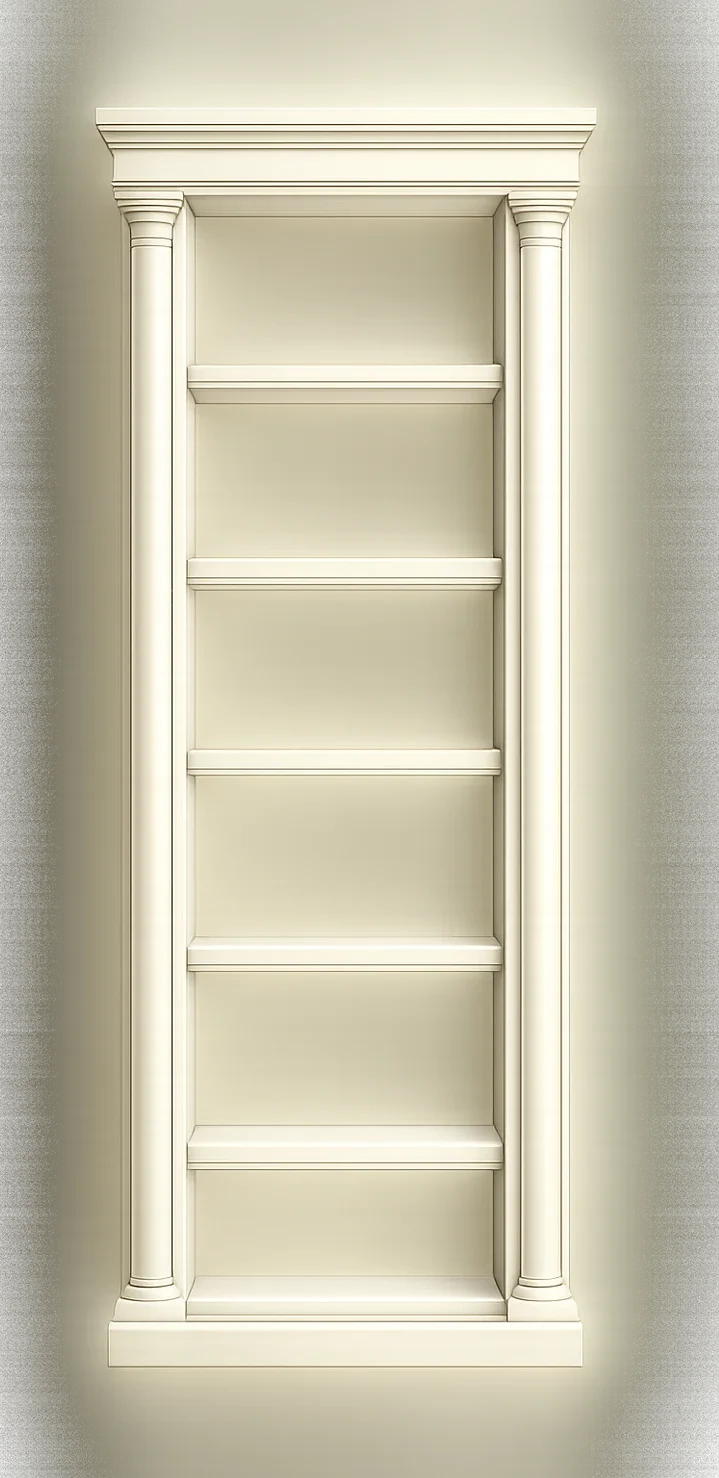
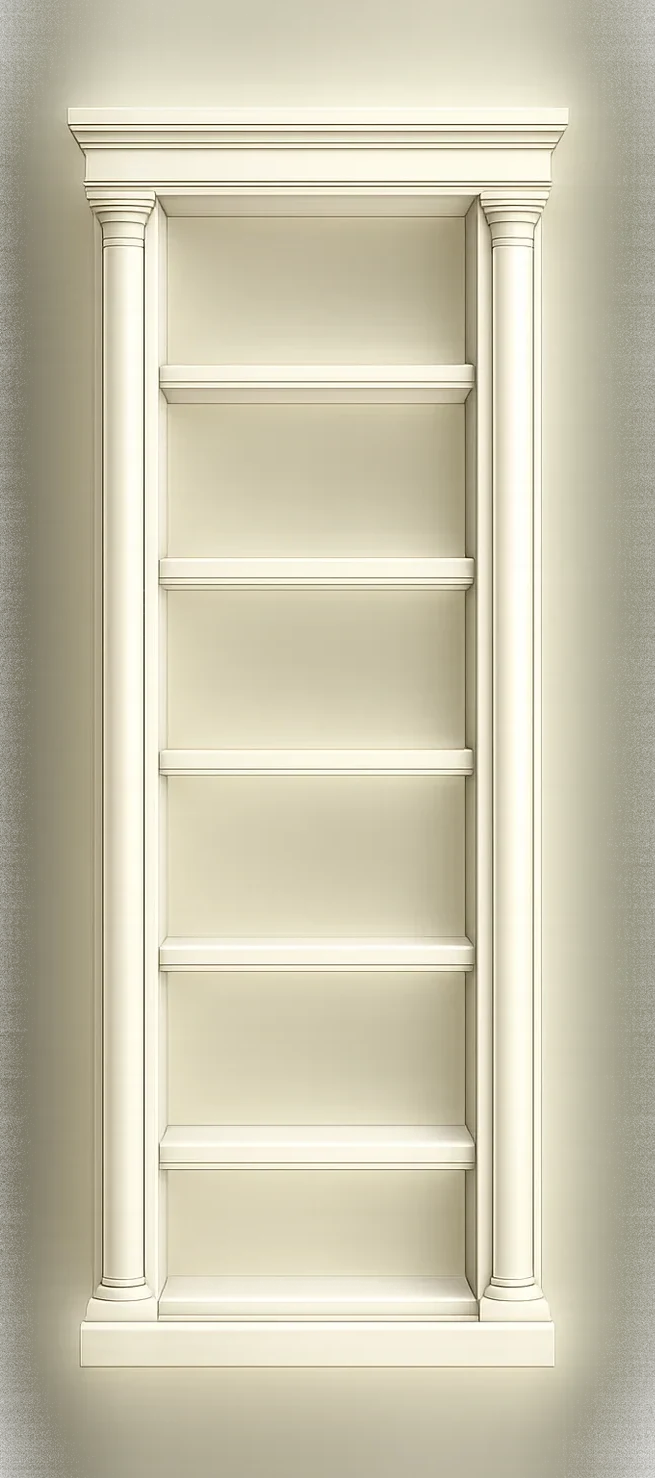
fix: 柱を残したままアイテムが下を潜って流れるようにする
柱を消す方式をやめる。棚を 2 枚重ね、中身をその間に挟む。
  - 奥（塗りあり）: 背板・棚板を含む棚そのもの
  - 手前（塗りなし）: 柱・繰形などの枠だけ
アイテムは柱の下を潜って流れるので、柱を消す必要がなくなり、
送っている間も棚の幅は変わらない。スクロール位置の監視も不要になった。

併せて画像を造作の輪郭まで切り詰め（横 1282x304 / 縦 655x1478）、
枠の縮尺を上げてアイテムとの釣り合いを取り直す。

Changed region(s): [[0.6718, 0.0, 1.0, 1.0], [0.0916, 0.0622, 0.2748, 0.9337], [0.0, 0.0, 0.0916, 1.0]]

diff --git a/frontend/src/components/features/display/ShelfBoard.tsx b/frontend/src/components/features/display/ShelfBoard.tsx
@@ -1,6 +1,6 @@
 'use client'
 
-import { createContext, useContext, useEffect, useRef, useState, type ReactNode } from 'react'
+import { createContext, useContext, type ReactNode } from 'react'
 import { useSettingsStore } from '@/stores/settings'
 import {
   DEFAULT_DISPLAY_STYLE,
@@ -74,13 +74,9 @@ export function ShelfGroup({ children, className = '' }: { children: ReactNode; 
  * 場が増えても設定は増やさない方針なので、何を出すかはここで場ごとに決める。
  * atelier（制作台）/ study（机）は今後この分岐に足す。
  */
-// 横棚の側枠（柱）の幅。マスクの切り口もここから逆算するので 1 か所で持つ
-const SIDE_BORDER = 105
-
 export function SurfaceBoard({ surface, children }: { surface: Surface; children: ReactNode }) {
   const style = useDisplayStyle()
   const orientation = useShelfOrientation()
-  const { hostRef, scrollable } = useRailEdges(children)
 
   if (style === 'simple' || surface !== 'library') return <>{children}</>
 
@@ -88,127 +84,65 @@ export function SurfaceBoard({ surface, children }: { surface: Surface; children
   const stacked = orientation === 'columns'
 
   /*
-    棚の切れ目。中身が送りきれない棚は、両端の柱の枠幅を 0 にする。
+    棚は border-image で描く。背景画像として引き伸ばすと柱や繰形まで一緒に伸びるが、
+    border-image なら四隅と四辺を切り出して固定し、中央だけを伸ばせる。
+    slice の値は、透明な余白を切り落とした画像の実測値。
+      - 横 1282x304: 繰形 y=..50 / 内部 50..235 / 棚板 235..304、柱 x=51..120・1200..1251
+      - 縦 655x1478: 繰形 y=..210 / 柱 x=93..150・500..543 / 台座 y=1288..
 
-    柱をマスクで透過させるだけだと、そこにあった幅が空白として残り、
-    棚が痩せたように見えてしまう。棚が続いていることを示したいので、
-    枠を落として *その幅を棚の内側に明け渡す*。中身もそのぶん広く使える。
-
-    開閉はスクロール位置ではなく「送れる棚か」で決める。位置で切り替えると
-    枠が戻る → 中身の幅が変わる → 判定が変わる、の往復が起きて表示が乱れるため。
-
-    枠幅は 4 辺とも longhand で指定する。shorthand と混ぜると、
-    値を戻したときに古い指定が残るかどうかがブラウザ任せになるため。
-    切り口は短いマスクで和らげるだけに留める（幅は奪わない）。
+    棚は 2 枚重ねる。
+      - 奥（塗りあり）: 背板・棚板を含む棚そのもの
+      - 手前（塗りなし）: 柱・繰形などの枠だけ
+    中身をその間に挟むことで、アイテムは柱の *下を潜って* 流れる。
+    柱を消す必要がなくなるので、送っている間も棚の幅は変わらない。
   */
-  const openEnd = scrollable
-  const openStart = scrollable
-  const softCut = 32
-
-  /*
-    棚は border-image で描く。背景画像として引き伸ばすと柱や繰形まで一緒に伸びて
-    絵が崩れるが、border-image なら四隅と四辺を切り出して固定し、中央だけを伸ばせる。
-    slice の値は画像の不透明度プロファイルから採った実測値。
-      横: 柱 x=90..260 / 1140..1310、上の繰形 y=..90、棚板と台座 y=250..
-      縦: 柱 x=90..190 / 630..730、上の繰形 y=..210、台座 y=1288..
-    border の内側がそのまま棚の内側になるので、アイテムが柱に載ることはない。
-  */
-  const shelf = stacked
+  const frame = stacked
     ? {
-        borderTopWidth: '116px',
-        borderBottomWidth: '105px',
-        borderLeftWidth: '82px',
-        borderRightWidth: '82px',
+        borderTopWidth: '137px',
+        borderBottomWidth: '124px',
+        borderLeftWidth: '104px',
+        borderRightWidth: '104px',
         borderImageSource: "url('/shelf/vertical.webp')",
-        borderImageSlice: '210 150 190 150 fill',
+        slice: '210 160 190 160',
       }
     : {
-        borderTopWidth: '34px',
-        borderBottomWidth: '51px',
-        borderLeftWidth: `${SIDE_BORDER}px`,
-        borderRightWidth: `${SIDE_BORDER}px`,
+        borderTopWidth: '45px',
+        borderBottomWidth: '62px',
+        borderLeftWidth: '135px',
+        borderRightWidth: '135px',
         borderImageSource: "url('/shelf/horizontal.webp')",
-        borderImageSlice: '62 190 92 190 fill',
+        slice: '50 150 69 150',
       }
+  const { slice, ...box } = frame
+  const layer = (fill: boolean) => ({
+    ...box,
+    borderStyle: 'solid' as const,
+    borderColor: 'transparent',
+    borderImageRepeat: 'stretch' as const,
+    borderImageSlice: fill ? `${slice} fill` : slice,
+  })
 
   return (
     <div className="relative flex h-full min-h-0 flex-1 flex-col">
-      <div
-        ref={hostRef}
-        className={`relative flex flex-1 ${stacked ? 'items-start' : 'items-end'}`}
-        style={{
-          ...shelf,
-          borderStyle: 'solid',
-          borderColor: 'transparent',
-          borderImageRepeat: 'stretch',
-          ...(stacked
-            ? null
-            : {
-                borderLeftWidth: openStart ? '0px' : `${SIDE_BORDER}px`,
-                borderRightWidth: openEnd ? '0px' : `${SIDE_BORDER}px`,
-                maskImage: `linear-gradient(to right, ${
-                  openStart ? `transparent 0, #000 ${softCut}px` : '#000 0%'
-                }, ${openEnd ? `#000 calc(100% - ${softCut}px), transparent 100%` : '#000 100%'})`,
-                WebkitMaskImage: `linear-gradient(to right, ${
-                  openStart ? `transparent 0, #000 ${softCut}px` : '#000 0%'
-                }, ${openEnd ? `#000 calc(100% - ${softCut}px), transparent 100%` : '#000 100%'})`,
-                maskSize: '100% 100%',
-                maskRepeat: 'no-repeat',
-                WebkitMaskSize: '100% 100%',
-                WebkitMaskRepeat: 'no-repeat',
-              }),
-        }}
-      >
-        {/*
-          中身。横棚では棚板に少し掛かるところまで下げる。
-          こうするとアイテムは板の上に載って見え、スクロールバーは板の小口に重なる。
-        */}
+      <div className={`relative flex flex-1 ${stacked ? 'items-start' : 'items-end'}`}>
+        {/* 奥。背板と棚板を含む棚そのもの */}
+        <span aria-hidden className="absolute inset-0" style={layer(true)} />
+
+        {/* 中身。柱の下も含めた全幅を使い、枠の内側に収まる位置まで余白で押し込む */}
         <div
-          className={`relative z-10 min-w-0 flex-1 [&>[data-rail]>*]:drop-shadow-[0_6px_5px_rgba(0,0,0,0.22)] ${
-            stacked ? '' : '-mb-3 px-3 pt-4'
-          }`}
+          className="relative z-[1] min-w-0 flex-1 [&>[data-rail]>*]:drop-shadow-[0_6px_5px_rgba(0,0,0,0.22)]"
+          style={
+            stacked
+              ? { paddingLeft: 104, paddingRight: 104, paddingTop: 145, paddingBottom: 124 }
+              : { paddingTop: 53, paddingBottom: 50 }
+          }
         >
           {children}
         </div>
+
+        {/* 手前。柱と繰形だけを中身の上に重ねる */}
+        <span aria-hidden className="pointer-events-none absolute inset-0 z-[2]" style={layer(false)} />
       </div>
     </div>
   )
-}
-
-/**
- * 中身が送れる方向を見張る。
- *
- * 棚の端を切って見せるかどうかは「まだ先があるか」で決まるため、
- * スクロール位置・中身の量・棚の幅のいずれが変わっても取り直す。
- * Rail は呼び出し側が描く要素なので、data-rail を目印に辿る。
- */
-function useRailEdges(children: ReactNode) {
-  const hostRef = useRef<HTMLDivElement>(null)
-  const [edges, setEdges] = useState({ scrollable: false })
-
-  useEffect(() => {
-    const rail = hostRef.current?.querySelector<HTMLElement>('[data-rail]')
-    if (!rail) return
-
-    const update = () => {
-      // 枠を出し入れすると中身の幅が変わり、その結果また判定が変わる。
-      // 位置で切り替えると往復して表示が乱れるため、「送れる棚か」だけで決める。
-      // 送れる棚では両端を開けたままにし、レイアウトを動かさない。
-      const scrollable = rail.scrollWidth - rail.clientWidth > 1
-      setEdges((prev) => (prev.scrollable === scrollable ? prev : { scrollable }))
-    }
-    update()
-    rail.addEventListener('scroll', update, { passive: true })
-    // 枠の大きさが変わらなくても中身の総幅は変わる（画像の読み込みなど）。
-    // Rail 自身に加えて、並んでいるアイテムも監視して取り直す。
-    const ro = new ResizeObserver(update)
-    ro.observe(rail)
-    for (const child of rail.children) ro.observe(child)
-    return () => {
-      rail.removeEventListener('scroll', update)
-      ro.disconnect()
-    }
-  }, [children])
-
-  return { hostRef, ...edges }
 }
